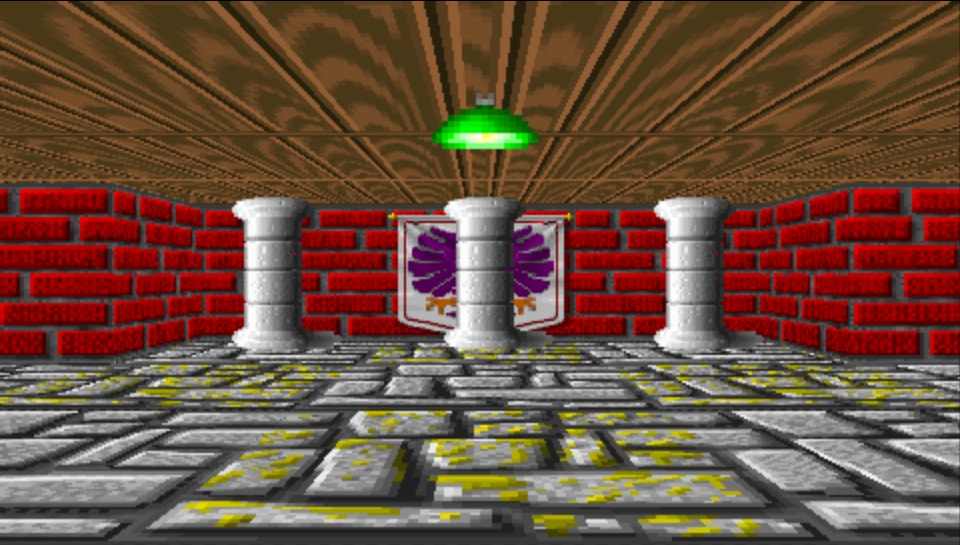
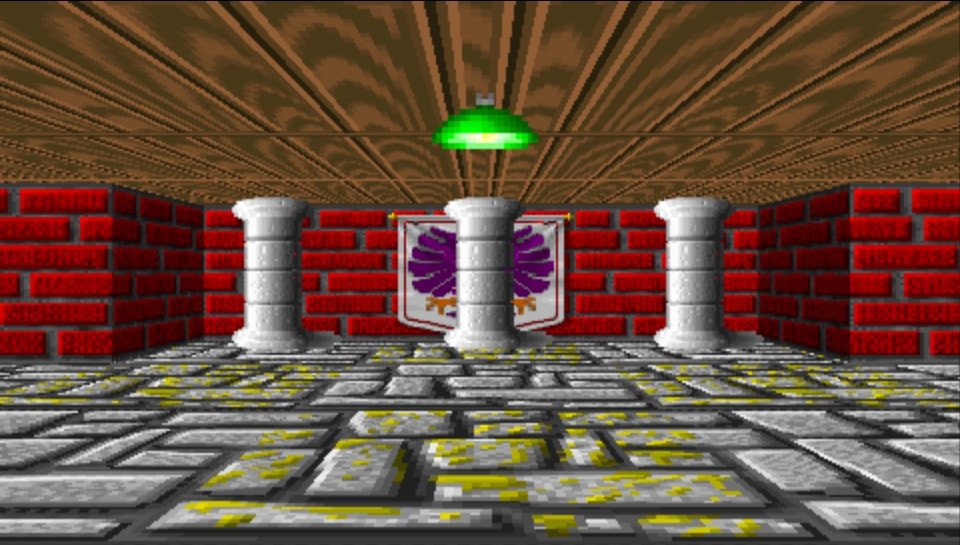
Giving different brightness to side walls

Changed region(s): [[0.0938, 0.3431, 0.2188, 0.655], [0.7812, 0.3431, 0.9062, 0.655]]

diff --git a/src/main.cpp b/src/main.cpp
@@ -335,6 +335,10 @@ int main()
 				int texY = (int)texPos & (textureSize - 1);
 				texPos += step;
 				g2dColor color = (g2dColor)texture[texNum]->data[textureSize * texX + texY];
+				
+				// Give x and y sides different brightness
+				if (side == 1)
+					color = G2D_RGBA(G2D_GET_R(color) / 2, G2D_GET_G(color) / 2, G2D_GET_B(color) / 2, 255);
 				tex->data[tex->tw * y + x] = (g2dColor)color;
 			}
 
